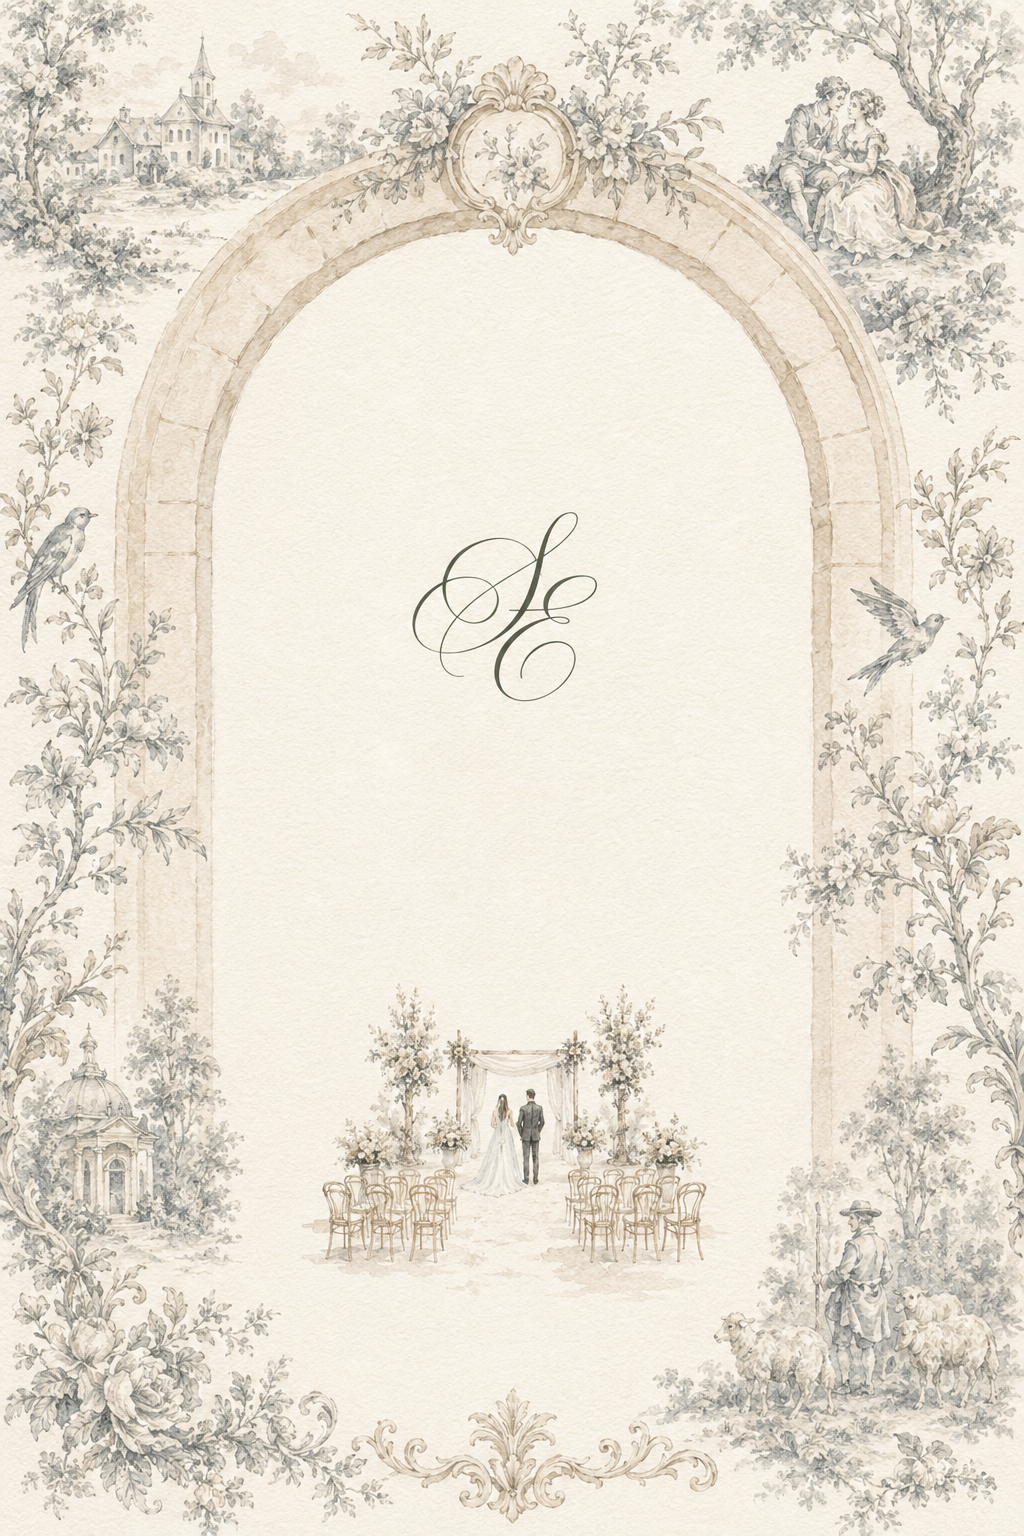
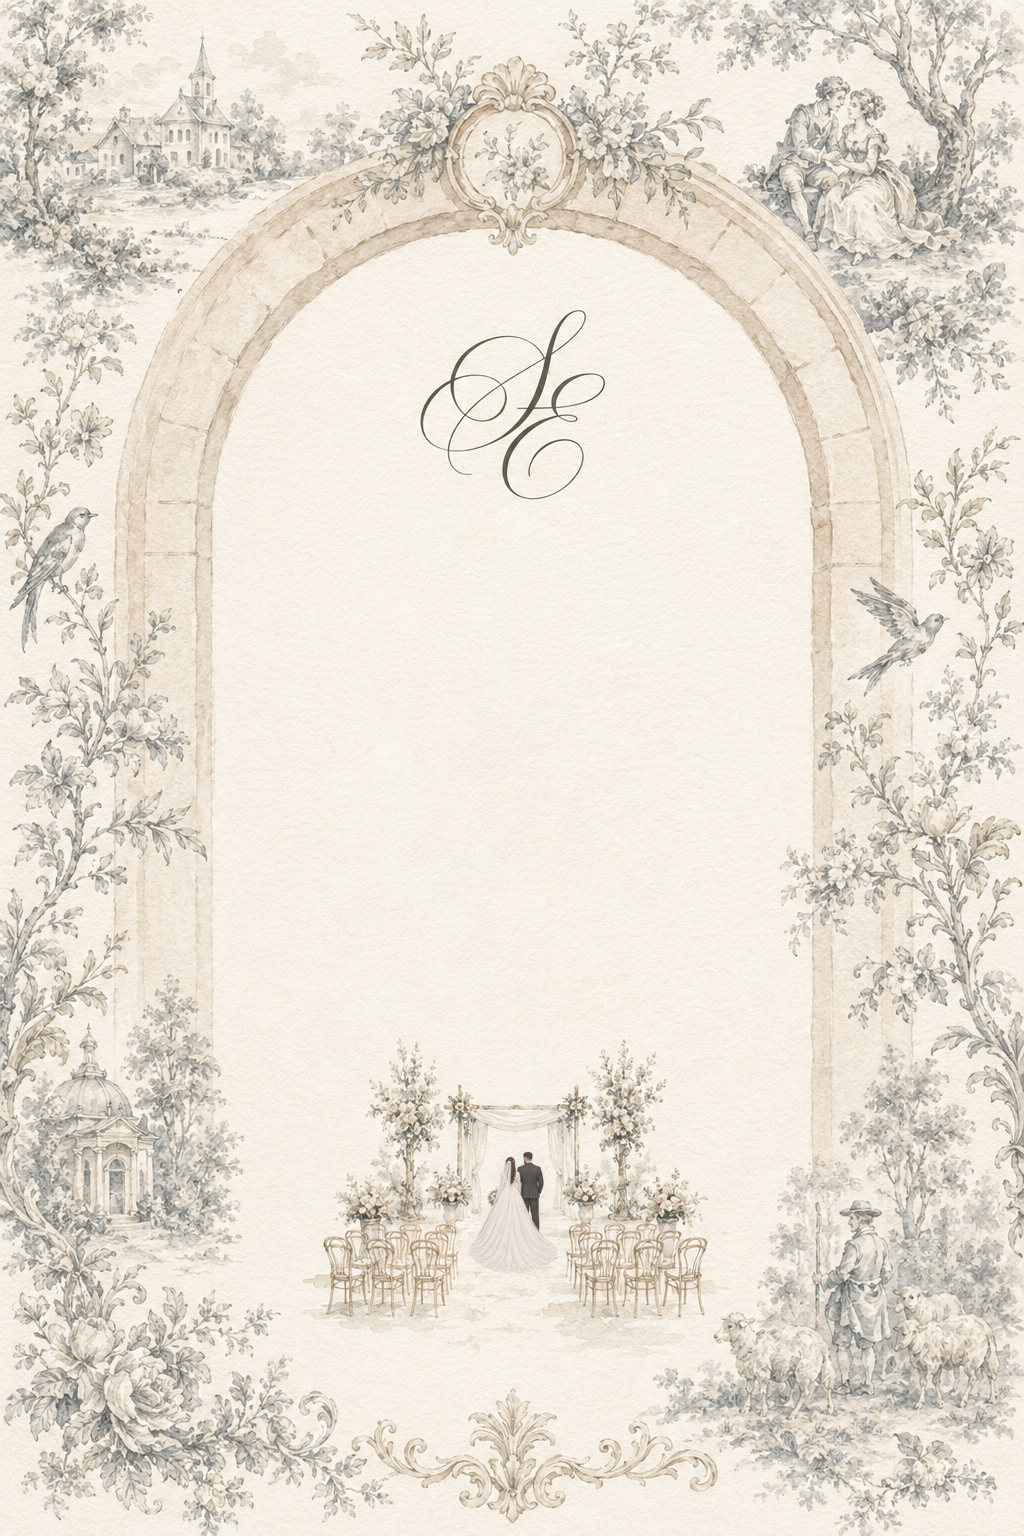
Texte du hero centré dans le vide de l'arche
Le bloc prénoms/date était ancré par son haut à 47 %, donc tout le texte
tombait sous le centre de l'arche. Il est désormais centré sur lui-même
(translateY(-50%)) à 48 % de la hauteur, milieu de l'espace libre entre le
bas du monogramme (~32 %) et le haut de la scène de cérémonie (~68 %). Les
2 % d'écart avec le centre exact compensent la hauteur que la ligne en
Pinyon Script réserve au-dessus des lettres.

Vérifié sur iPhone 16 Pro (402x874) et 16 Pro Max (440x956) : l'espace
au-dessus et au-dessous du texte est égal à quelques pixels près.

Inclut la nouvelle version de accueil.png.

Changed region(s): [[0.3125, 0.625, 0.6875, 0.875], [0.4062, 0.3438, 0.5625, 0.4375], [0.4062, 0.2188, 0.5625, 0.3125]]

diff --git a/index.html b/index.html
@@ -340,11 +340,19 @@
             background: #fbf8f1 url('image/enveloppe/accueil.png') center center / cover no-repeat;
         }
 
+        /* centré dans le vide de l'arche d'accueil.png : entre le bas du
+           monogramme (~32 %) et le haut de la scène de cérémonie (~68 %).
+           translateY(-50%) centre le bloc sur ce point, quelle que soit sa
+           hauteur. Le fond étant en « cover » rogné sur les côtés, les
+           positions verticales de l'image restent exactes à toute taille.
+           48 % et non 50 % : la ligne en Pinyon Script réserve de la place
+           au-dessus des lettres, ce qui décale le texte visible vers le bas. */
         .hero-txt {
             position: absolute;
             left: 0;
             right: 0;
-            top: 47%;
+            top: 48%;
+            transform: translateY(-50%);
             text-align: center;
             padding: 0 170px;
             z-index: 2;
